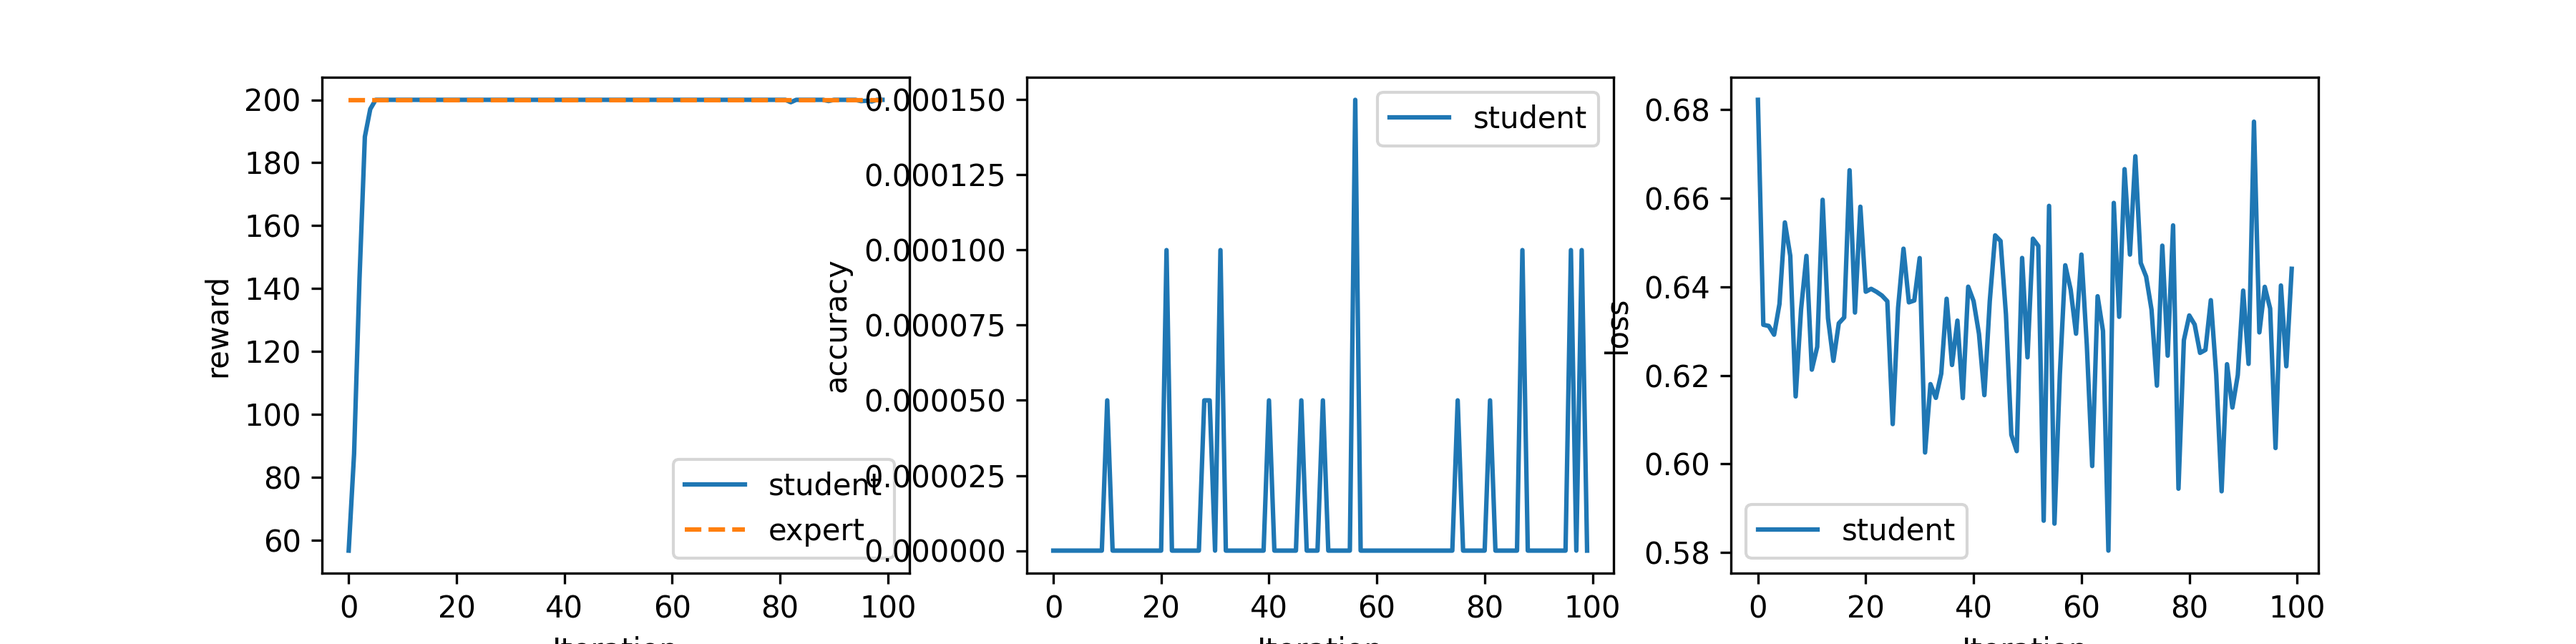
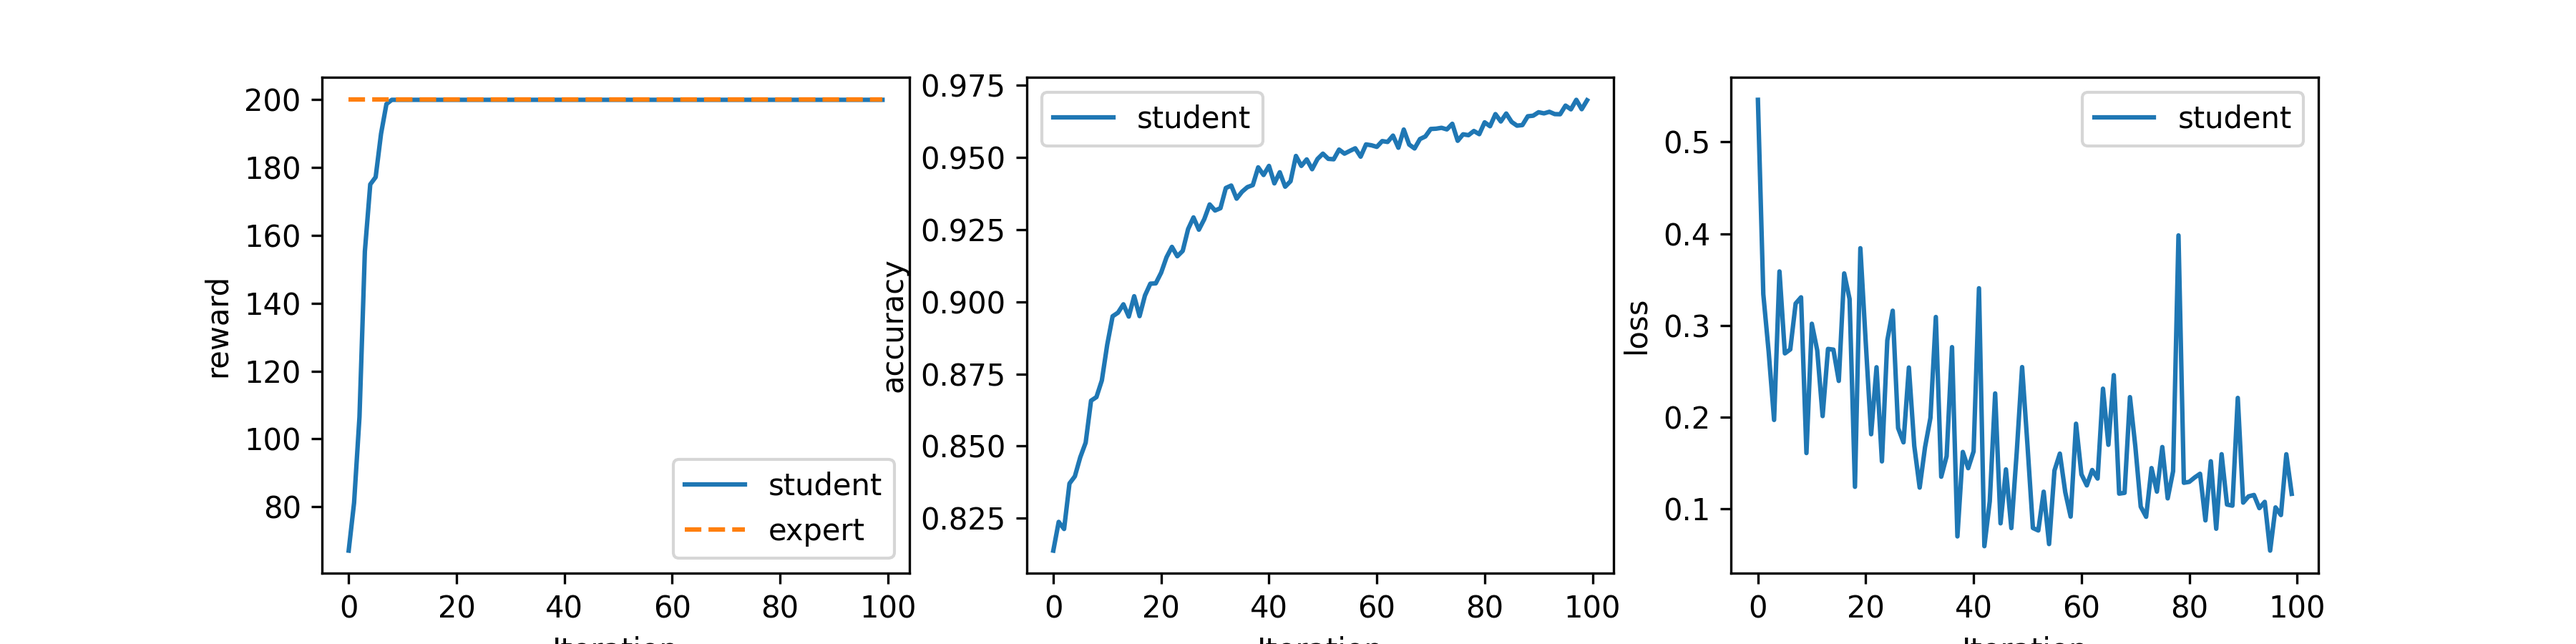
:tada: update training scipt in hw3-p2

diff --git a/hw3/hw3q2/imitation.py b/hw3/hw3q2/imitation.py
@@ -48,8 +48,10 @@ def generate_episode(env, policy):
         states.append(state)
         action_tensor = policy(torch.from_numpy(state).float())
         action_tensor = torch.softmax(action_tensor, dim=0)
-        actions.append(action_tensor.detach().numpy())
-        state, reward, done, _ = env.step(np.argmax(actions[-1]))
+        action = np.argmax(action_tensor.detach().numpy())
+        action_one_hot = action_to_one_hot(env, action)
+        actions.append(action_one_hot)
+        state, reward, done, _ = env.step(action)
         rewards.append(reward)
     return states, actions, rewards
 
@@ -91,8 +93,10 @@ class Imitation:
             for s in states:
                 action_tensor = self.expert(torch.from_numpy(s).float())
                 action_tensor = torch.softmax(action_tensor, dim=0)
+                action = np.argmax(action_tensor.detach().numpy())
+                action_one_hot = action_to_one_hot(self.env, action)
                 self._train_states.append(s)
-                self._train_actions.append(action_tensor.detach().numpy())
+                self._train_actions.append(action_one_hot)
         self._train_states = np.array(self._train_states)
         self._train_actions = np.array(self._train_actions)
         # END
@@ -139,8 +143,10 @@ class Imitation:
         num_data = 0
         for states, actions in dataloader:
             action_pred = torch.softmax(self.model(states), dim=1)
-            num_correct += (action_pred == actions).sum().item()
-            num_data += len(actions)
+            action_pred = torch.argmax(action_pred, dim=1)
+            action_expert = torch.argmax(actions, dim=1)
+            num_correct += (action_pred == action_expert).sum().item()
+            num_data += actions.shape[0]
         acc = num_correct / num_data
 
         # END

diff --git a/hw3/hw3q2/BCDAGGER.py b/hw3/hw3q2/BCDAGGER.py
@@ -154,25 +154,31 @@ def main():
     # expert_file = "expert_tf.h5"
 
     # Switch mode
-    # mode = "behavior cloning"
-    mode = "dagger"
+    mode = "behavior cloning"
+    # mode = "dagger"
 
     # Change the list of num_episodes below for testing and different tasks
-    keys = [1, 10, 50, 100] # [100]  # [1, 10, 50, 100]
-    num_seeds = 3
+    keys = [100] # [100]  # [1, 10, 50, 100]
+    num_seeds = 1
     num_iterations = 100  # Number of training iterations. Use a small number
     # (e.g., 10) for debugging, and then try a larger number
     # (e.g., 100).
 
     # Q2.1.1, Q2.2.1
-    # plot_student_vs_expert(
-    #     mode, expert_file, keys, num_seeds=num_seeds, num_iterations=num_iterations
-    # )
+    for mode in ['behavior cloning', 'dagger']:
+        for num_seeds in [1, 3]:
+            if num_seeds == 1:
+                keys = [100]
+                plot_student_vs_expert(
+                    mode, expert_file, keys, num_seeds=num_seeds, num_iterations=num_iterations
+                )
+            else:
+                keys = [1, 10, 50, 100] 
+                plot_compare_num_episodes(
+                    mode, expert_file, keys, num_seeds=num_seeds, num_iterations=num_iterations
+                )
 
     # Q2.1.2, Q2.2.2
-    plot_compare_num_episodes(
-        mode, expert_file, keys, num_seeds=num_seeds, num_iterations=num_iterations
-    )
 
 
 if __name__ == "__main__":
